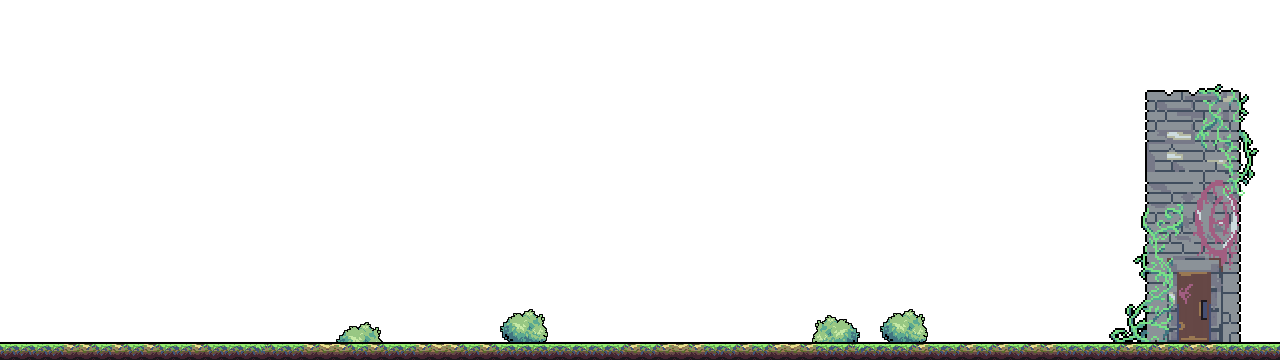
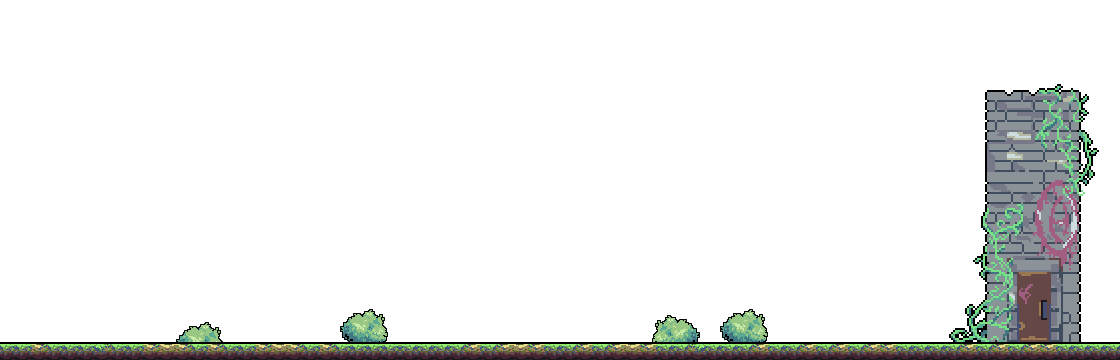
smooth movement

Changed region(s): [[0.0, 0.2139, 1.0, 1.0]]

diff --git a/src/it/unibs/pajc/baresi/controller/Game.java b/src/it/unibs/pajc/baresi/controller/Game.java
@@ -36,7 +36,6 @@ public class Game extends Canvas implements  Runnable {
     private String  title;
 
     public long ups = 120L;
-    public long fps = 120L;
 
     private Thread thread;
     private final Keyboard key;
@@ -54,7 +53,10 @@ public class Game extends Canvas implements  Runnable {
     // paths relative to background images
     private final String[][] paths = {
             {
-                "/background/ground/ground_temp.png",
+                "/background/sky/sky.png",
+            },
+            {
+                "/background/clouds/clouds.png",
             },
             {
                 "/background/mountains/mountains_1.png",
@@ -67,7 +69,7 @@ public class Game extends Canvas implements  Runnable {
                 "/background/mountains/mountains_8.png",
             },
             {
-                "/background/sky/sky.png",
+                "/background/ground/ground_tower.png",
             },
 
     };
@@ -193,45 +195,41 @@ public class Game extends Canvas implements  Runnable {
      */
     @Override
     public void run() {
-        AtomicLong upsTimer = new AtomicLong(System.currentTimeMillis());
-        AtomicLong fpsTimer = new AtomicLong(System.currentTimeMillis());
+        AtomicLong timer = new AtomicLong(System.currentTimeMillis());
 
         AtomicInteger frames = new AtomicInteger();
         AtomicInteger updates = new AtomicInteger();
 
         ScheduledExecutorService executor = Executors.newScheduledThreadPool(2);
-        Runnable taskUpdate = () -> {
+        Runnable task = () -> {
             ///
             /// updating logical part
             ///
             update();
             updates.getAndIncrement();
 
-            if (System.currentTimeMillis() - upsTimer.get() > 1000) {
-                upsTimer.addAndGet(1000);
-                updates.set(0);
-            }
-        };
-
-        Runnable taskRender = () -> {
             ///
             /// updating graphical part
             ///
             render();
             frames.getAndIncrement();
 
-            if (System.currentTimeMillis() - fpsTimer.get() > 1000) {
-                fpsTimer.addAndGet(1000);
+            if (System.currentTimeMillis() - timer.get() > 1000) {
+                timer.addAndGet(1000);
                 frame.setTitle("fps " + frames);
+                updates.set(0);
                 frames.set(0);
             }
         };
 
+        Runnable taskRender = () -> {
+
+        };
+
         int initialDelay = 0;
-        long updatePeriod = 1_000_000_000L / ups;
-        long renderPeriod = 1_000_000_000L / fps;
-        executor.scheduleAtFixedRate(taskUpdate, initialDelay, updatePeriod, TimeUnit.NANOSECONDS);
-        executor.scheduleAtFixedRate(taskRender, initialDelay, renderPeriod, TimeUnit.NANOSECONDS);
+        long period = 1_000_000_000L / ups;
+
+        executor.scheduleAtFixedRate(task, initialDelay, period, TimeUnit.NANOSECONDS);
 
         /*
 
@@ -330,6 +328,7 @@ public class Game extends Canvas implements  Runnable {
 
         // Drawing image on the JFrame
         Graphics2D g2 = (Graphics2D) bs.getDrawGraphics();
+        g2.setRenderingHint(RenderingHints.KEY_ANTIALIASING, RenderingHints.VALUE_ANTIALIAS_ON);
         g2.setColor(Color.BLACK);
         g2.drawImage(image, 0, 0, getWidth(), getHeight(), null);
 

diff --git a/src/it/unibs/pajc/baresi/graphic/background/Background.java b/src/it/unibs/pajc/baresi/graphic/background/Background.java
@@ -11,11 +11,11 @@ import java.util.Comparator;
 public class Background {
     private int width, height;
     private double scale;
-    private double unit;
+    private double unit = 1120.;
     private Keyboard input;
     private Layer[] layers;
-    private int mapOffset;
-    private final int dx = 1;
+    private double mapOffset;
+    private final double dx = 1;
 
     //
     // Constructor
@@ -37,7 +37,8 @@ public class Background {
 
         // sorts the layer array by width
         Arrays.sort(layers, Comparator.comparing(Layer::getWidth));
-        unit = layers[layers.length - 1].getWidth();
+        //
+        unit = layers[layers.length - 2].getWidth();
     }
 
     public int getMapOffset() {

diff --git a/src/it/unibs/pajc/baresi/graphic/background/Layer.java b/src/it/unibs/pajc/baresi/graphic/background/Layer.java
@@ -43,8 +43,10 @@ public class Layer {
 
     public void update() {
         // todo here?? or render?
-        index = (++anim / (100 / paths.length)) % paths.length;
-        anim %= 100;
+        if (paths.length > 1) {
+            index = (++anim / (100 / paths.length)) % paths.length;
+            anim %= 100;
+        }
     }
 
     public void render(int xOffset, Screen screen) {
